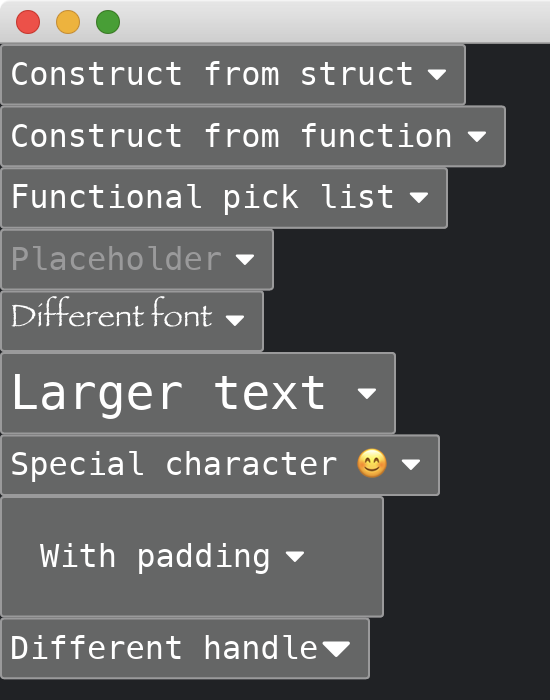
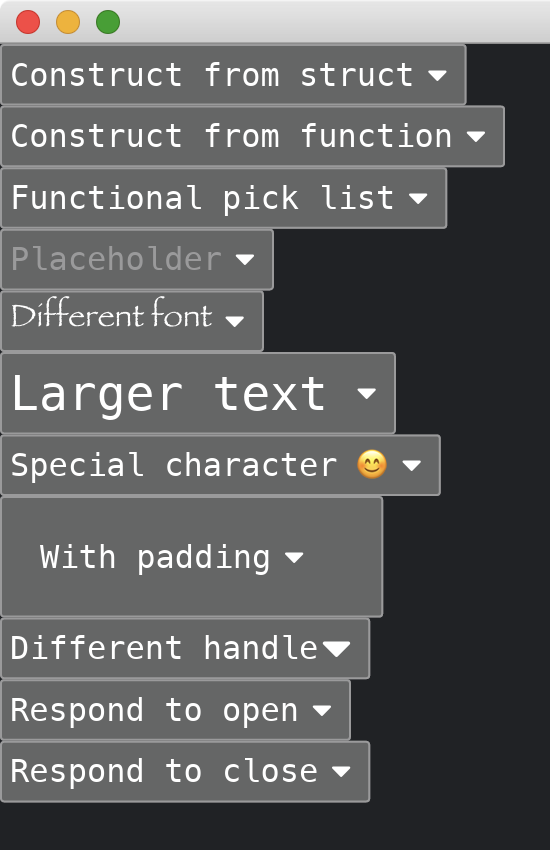
Update tutorial to 0.12.1 for picklist

Changed region(s): [[0.0, 0.0, 1.0, 0.99]]

diff --git a/tutorial/pickList.md b/tutorial/pickList.md
@@ -2,7 +2,7 @@
 
 The [PickList](https://docs.rs/iced/0.12.1/iced/widget/pick_list/struct.PickList.html) widget represents a choice among multiple values.
 It has two methods of constructions.
-It supports reactions to option selections.
+It supports reactions to option selections and menu opening/closing.
 A placeholder can be set when options are not selected yet.
 It is able to change styles of the text.
 We can add padding around the text inside.
@@ -11,7 +11,7 @@ We can also change the icon of the handle.
 ```rust
 use iced::{
     font::Family,
-    widget::{column, pick_list, pick_list::Handle, text::Shaping, PickList},
+    widget::{column, pick_list, pick_list::Handle, row, text, text::Shaping, PickList},
     Font, Pixels, Sandbox, Settings,
 };
 
@@ -23,10 +23,14 @@ fn main() -> iced::Result {
 enum MyAppMessage {
     DoNothing,
     Update3(String),
+    Open10,
+    Close11,
 }
 
 struct MyApp {
     pick_list_3: Option<String>,
+    info_10: String,
+    info_11: String,
 }
 
 impl Sandbox for MyApp {
@@ -35,6 +39,8 @@ impl Sandbox for MyApp {
     fn new() -> Self {
         Self {
             pick_list_3: Some("Functional pick list".into()),
+            info_10: "".into(),
+            info_11: "".into(),
         }
     }
 
@@ -46,6 +52,8 @@ impl Sandbox for MyApp {
         match message {
             MyAppMessage::DoNothing => {}
             MyAppMessage::Update3(s) => self.pick_list_3 = Some(s),
+            MyAppMessage::Open10 => self.info_10 = "Open".into(),
+            MyAppMessage::Close11 => self.info_11 = "Close".into(),
         }
     }
 
@@ -68,8 +76,10 @@ impl Sandbox for MyApp {
                 self.pick_list_3.clone(),
                 |s| MyAppMessage::Update3(s)
             ),
-            pick_list(vec!["A", "B", "C"], None::<&str>, |_| MyAppMessage::DoNothing)
-                .placeholder("Placeholder"),
+            pick_list(vec!["A", "B", "C"], None::<&str>, |_| {
+                MyAppMessage::DoNothing
+            })
+            .placeholder("Placeholder"),
             pick_list(vec!["Different font"], Some("Different font"), |_| {
                 MyAppMessage::DoNothing
             })
@@ -94,13 +104,25 @@ impl Sandbox for MyApp {
             pick_list(vec!["Different handle"], Some("Different handle"), |_| {
                 MyAppMessage::DoNothing
             })
-            .handle(Handle::Arrow { size: Some(Pixels(24.)) }),
+            .handle(Handle::Arrow {
+                size: Some(Pixels(24.))
+            }),
+            row![
+                pick_list(vec!["Respond to open"], Some("Respond to open"), |_| {
+                    MyAppMessage::DoNothing
+                })
+                .on_open(MyAppMessage::Open10),
+                text(&self.info_10),
+            ],
+            row![
+                pick_list(vec!["Respond to close"], Some("Respond to close"), |_| {
+                    MyAppMessage::DoNothing
+                })
+                .on_close(MyAppMessage::Close11),
+                text(&self.info_11),
+            ],
         ]
         .into()
-    }
-
-    fn theme(&self) -> iced::Theme {
-        iced::Theme::Dark
     }
 }
 ```

diff --git a/README.md b/README.md
@@ -21,7 +21,7 @@ Contents:
   * [Checkbox](./tutorial/checkbox.md)
   * [Toggler](./tutorial/toggler.md)
   * [Radio](./tutorial/radio.md)
-  * [PickList](./tutorial/pickList.md)
+  * [PickList](./tutorial/picklist.md)
   * [ComboBox](./tutorial/combobox.md)
   * [Slider And VerticalSlider](./tutorial/slider.md)
   * [ProgressBar](./tutorial/progressbar.md)

diff --git a/tutorial/radio.md b/tutorial/radio.md
@@ -99,6 +99,6 @@ impl Sandbox for MyApp {
 
 ![Radio](./pic/radio.png)
 
-:arrow_right:  Next: [PickList](./pickList.md)
+:arrow_right:  Next: [PickList](./picklist.md)
 
 :blue_book: Back: [Table of contents](./../README.md)
